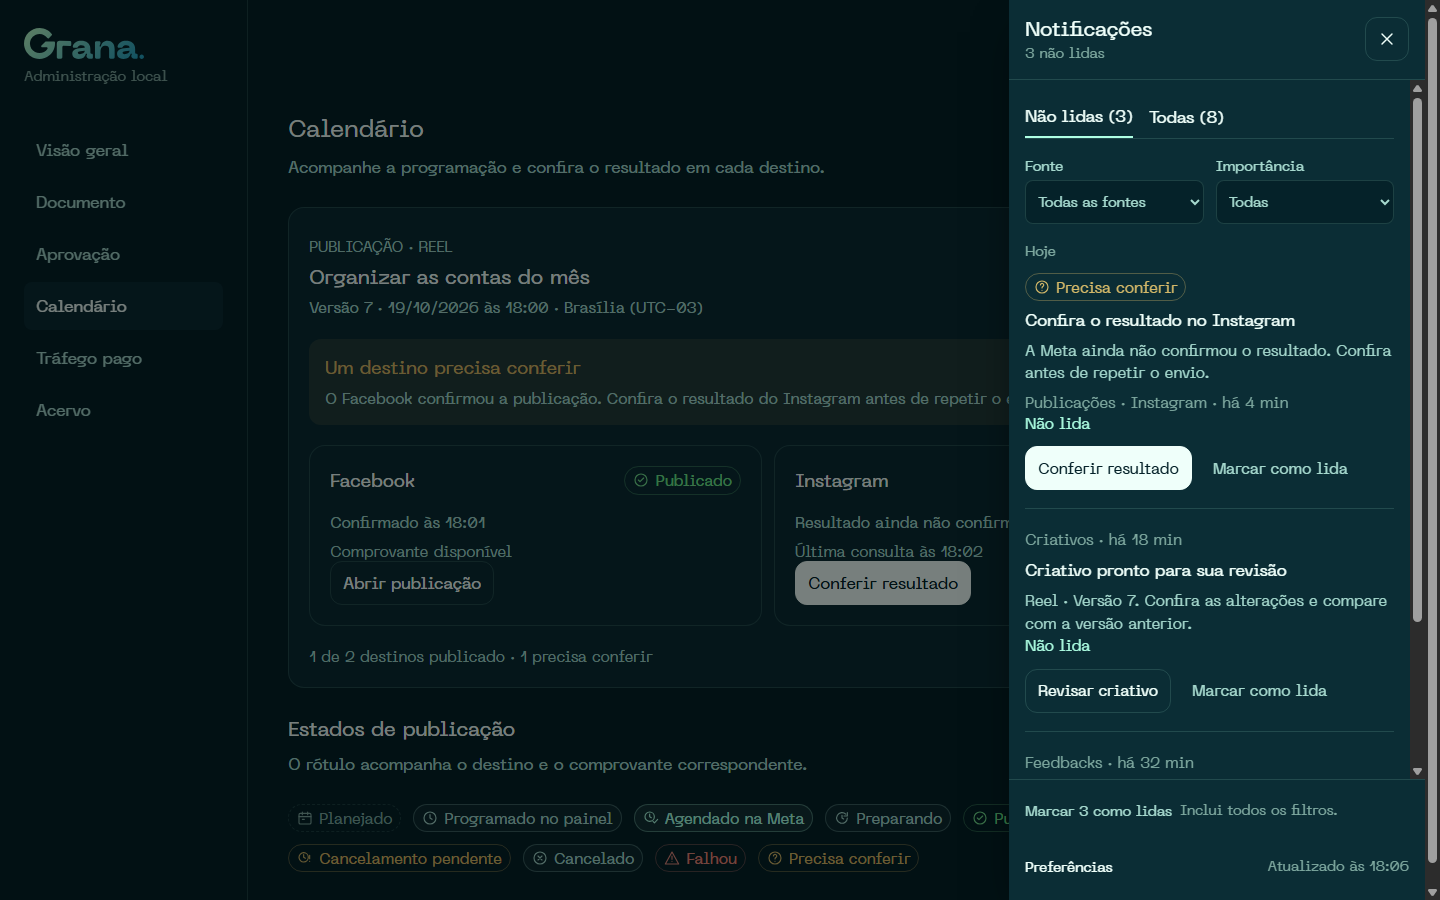
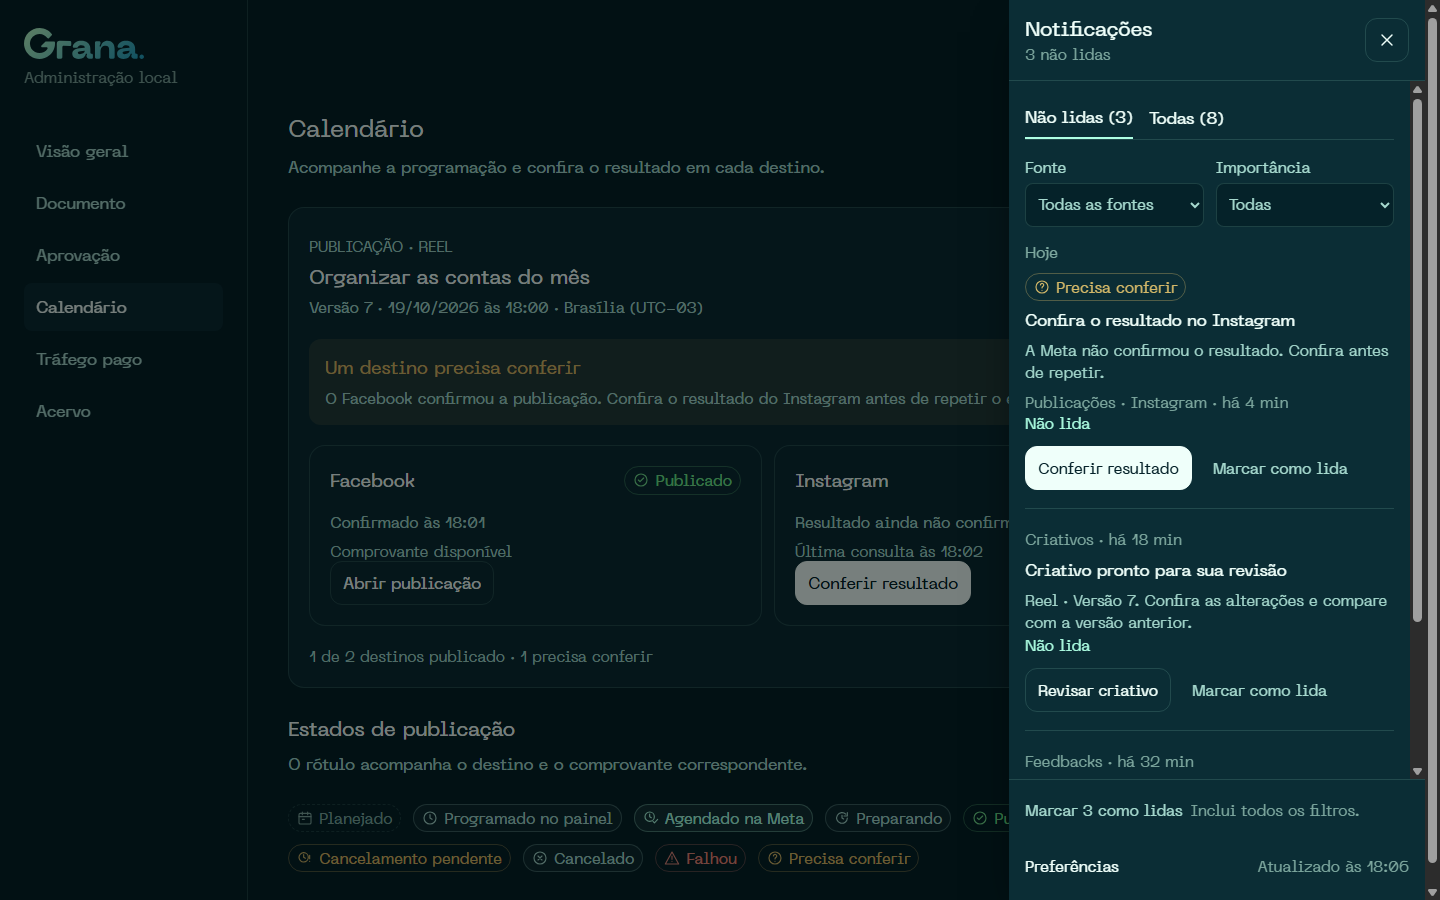
docs(admin): ajusta escala e rodape das pranchas M6

diff --git a/docs/admin/m6-prism/M6-Prism-pranchas.html b/docs/admin/m6-prism/M6-Prism-pranchas.html
@@ -74,7 +74,7 @@
       border-radius: 999px;
       background: var(--mint);
       color: var(--paper);
-      font: 400 10px/1 Neue, sans-serif;
+      font: 400 11px/1 Neue, sans-serif;
       text-align: center;
     }
     button.icon svg { width: 20px; height: 20px; }
@@ -86,7 +86,7 @@
       border-right: 1px solid var(--rule);
     }
     .brand { display: block; width: 120px; height: auto; margin-bottom: 8px; }
-    .small { color: var(--faint); font-size: 14px; line-height: 1.35; font-weight: 300; }
+    .small { color: var(--faint); font-size: 15px; line-height: 1.35; font-weight: 300; }
     .sidebar nav { display: grid; gap: 4px; margin-top: 40px; }
     .sidebar nav span { padding: 12px; border-radius: 8px; color: var(--soft); }
     .sidebar nav span.active { background: var(--raised); color: var(--ink); }
@@ -164,7 +164,7 @@
     .tabs .selected { border-bottom: 2px solid var(--mint); }
     .filter-toggle { display: none; }
     .filters { display: grid; grid-template-columns: 1fr 1fr; gap: 12px; margin: 16px 0; }
-    .filters label { min-width: 0; color: var(--soft); font-size: 14px; }
+    .filters label { min-width: 0; color: var(--soft); font-size: 15px; }
     .filters select {
       display: block;
       width: 100%;
@@ -175,15 +175,15 @@
       border: 1px solid var(--rule);
       border-radius: 8px;
       background: var(--paper);
-      font-size: 14px;
+      font-size: 15px;
     }
     .mark { display: flex; align-items: center; gap: 8px; }
-    .mark button { min-height: 44px; padding: 8px 0; border: 0; color: var(--soft); font-size: 14px; }
+    .mark button { min-height: var(--alvo); padding: 8px 0; border: 0; color: var(--soft); font-size: 15px; white-space: nowrap; }
     .mark .undo { display: none; }
     .mark.completed .mark-all { display: none; }
     .mark.completed .undo { display: inline-flex; }
     .mark-status { min-height: 0; }
-    .group { margin: 0 0 12px; color: var(--faint); font-size: 14px; }
+    .group { margin: 0 0 12px; color: var(--faint); font-size: 15px; line-height: 1.2; }
     .notification { margin-bottom: 18px; padding-bottom: 18px; border-bottom: 1px solid var(--rule); }
     .notification h3 { margin: 8px 0; font-size: 16px; line-height: 1.35; }
     .notification p { color: var(--soft); font-size: 15px; line-height: 1.5; font-weight: 300; }
@@ -202,14 +202,14 @@
       border-top: 1px solid var(--rule);
     }
     .drawer-foot-main { display: flex; align-items: center; justify-content: space-between; gap: 12px; }
-    .drawer-foot button { padding: 8px 0; border: 0; font-size: 14px; }
+    .drawer-foot button { padding: 8px 0; border: 0; font-size: 15px; }
     .drawer-foot .small { text-align: right; }
     .hidden { display: none !important; }
     :focus-visible { outline: 2px solid var(--accent-2); outline-offset: 2px; }
     .state-board { max-width: 620px; margin: 0 auto; padding: 24px 16px 40px; }
     .state-board > p { margin-top: 8px; color: var(--soft); font-size: 15px; }
     .sample { margin-top: 12px; padding: 14px; border: 1px solid var(--rule); border-radius: 14px; background: var(--raised); }
-    .sample-label { margin-bottom: 8px; color: var(--faint); font-size: 13px; letter-spacing: .04em; text-transform: uppercase; }
+    .sample-label { margin-bottom: 8px; color: var(--faint); font-size: 15px; letter-spacing: .04em; text-transform: uppercase; }
     .sample p { color: var(--soft); font-size: 15px; line-height: 1.4; }
     .sample h2 { margin-bottom: 6px; font-size: 18px; }
     .sample .state { margin-bottom: 8px; }
@@ -221,7 +221,7 @@
     .preference-option { display: flex; align-items: center; justify-content: space-between; gap: 12px; min-height: var(--alvo); border-bottom: 1px solid var(--rule); }
     .preference-option:last-child { border-bottom: 0; }
     .preference-option p { font-size: 15px; }
-    .preference-switch { display: inline-flex; align-items: center; justify-content: flex-end; min-width: 48px; min-height: 28px; padding: 0 6px; border: 1px solid rgba(174, 255, 227, .35); border-radius: 999px; color: var(--mint); font-size: 12px; }
+    .preference-switch { display: inline-flex; align-items: center; justify-content: flex-end; min-width: 48px; min-height: 28px; padding: 0 6px; border: 1px solid rgba(174, 255, 227, .35); border-radius: 999px; color: var(--mint); font-size: 15px; }
     .undo-sample { display: flex; align-items: center; justify-content: space-between; gap: 12px; }
     @media (prefers-reduced-motion: reduce) {
       *, *::before, *::after { scroll-behavior: auto !important; animation-duration: .01ms !important; animation-iteration-count: 1 !important; transition-duration: .01ms !important; }
@@ -232,23 +232,25 @@
       .global { display: none; }
       .mobilebar { display: flex; }
       .destinations { grid-template-columns: 1fr; }
-      .mobilebar button { font-size: 14px; }
+      .mobilebar button { font-size: 15px; }
     }
     @media (max-width: 640px) {
       .drawer { width: 100%; height: 100vh; height: 100dvh; border-radius: 0; }
+      .drawer-scroll { padding-top: 12px; }
       .filter-toggle { display: flex; width: 100%; justify-content: space-between; margin: 12px 0; }
       .filters { display: none; grid-template-columns: 1fr; margin: 0 0 12px; }
       .filters-open .filters { display: grid; }
       .notification .actions { flex-direction: row; align-items: center; gap: 4px; }
-      .notification .actions button { min-width: 0; min-height: 44px; padding: 6px; font-size: 13px; }
+      .notification .actions button { min-width: 0; min-height: var(--alvo); padding: 2px; font-size: 15px; }
       .notification .actions button.ghost { align-self: auto; }
-      .notification { margin-bottom: 16px; padding-bottom: 16px; }
-      .group { margin-bottom: 8px; }
+      .notification { margin-bottom: 8px; padding-bottom: 8px; }
+      .group { margin-bottom: 0; }
       .card { padding: 16px; }
       .destinations .row { align-items: flex-start; flex-direction: column; }
       .destinations .actions { flex-direction: column; align-items: stretch; }
-      .drawer-foot { gap: 4px; }
-      .drawer-foot-main { align-items: flex-start; }
+      .drawer-foot { gap: 0; padding-top: 4px; }
+      .mark { align-items: flex-start; flex-direction: column; gap: 0; }
+      .drawer-foot-main { align-items: center; }
       .drawer-foot .small { text-align: left; }
       .row { align-items: flex-start; }
     }
@@ -356,7 +358,7 @@
         <article class="notification">
           <span class="state warn"><svg aria-hidden="true"><use href="#question"/></svg>Precisa conferir</span>
           <h3>Confira o resultado no Instagram</h3>
-          <p>A Meta ainda não confirmou o resultado. Confira antes de repetir o envio.</p>
+          <p>A Meta não confirmou o resultado. Confira antes de repetir.</p>
           <p class="meta">Publicações · Instagram · há 4 min</p>
           <p class="unread">Não lida</p>
           <div class="actions"><button type="button" class="primary">Conferir resultado</button><button type="button" class="ghost">Marcar como lida</button></div>

diff --git a/docs/admin/m6-prism/M6-Prism-sino-estados.md b/docs/admin/m6-prism/M6-Prism-sino-estados.md
@@ -44,7 +44,7 @@ Em 641 px ou mais, abrir um painel modal ancorado à borda direita, com 416 px d
 
 Hierarquia:
 
-1. Cabeçalho: “Notificações” em 20/24 px, total de não lidas em 14/18,9 px e botão Fechar de 44 × 44 px.
+1. Cabeçalho: “Notificações” em 20/24 px, total de não lidas em 15/20,25 px e botão Fechar de 44 × 44 px.
 2. Abas “Não lidas” e “Todas”; a aba ativa tem texto e traço, além da cor. As quantidades devem acompanhar as duas abas.
 3. Filtros por fonte e importância, sem carrossel de chips. Fontes: “Todas as fontes”, “Publicações”, “Criativos”, “Feedbacks”, “Sistema” e “Novidades”. Importância: “Todas”, “Precisa agir” e “Informação”. São agrupamentos visuais, não estados de publicação.
 4. Ação “Marcar todas como lidas”, com ajuda explícita de que inclui notificações de todos os filtros. Opera sobre as existentes no instante da ação; as que chegarem depois continuam não lidas. Não exige confirmação. Em caso de falha, preservar contador e lista e oferecer nova tentativa. A ação mostra a quantidade (“Marcar 3 como lidas”) e, ao concluir, oferece “Desfazer” por alguns segundos.
